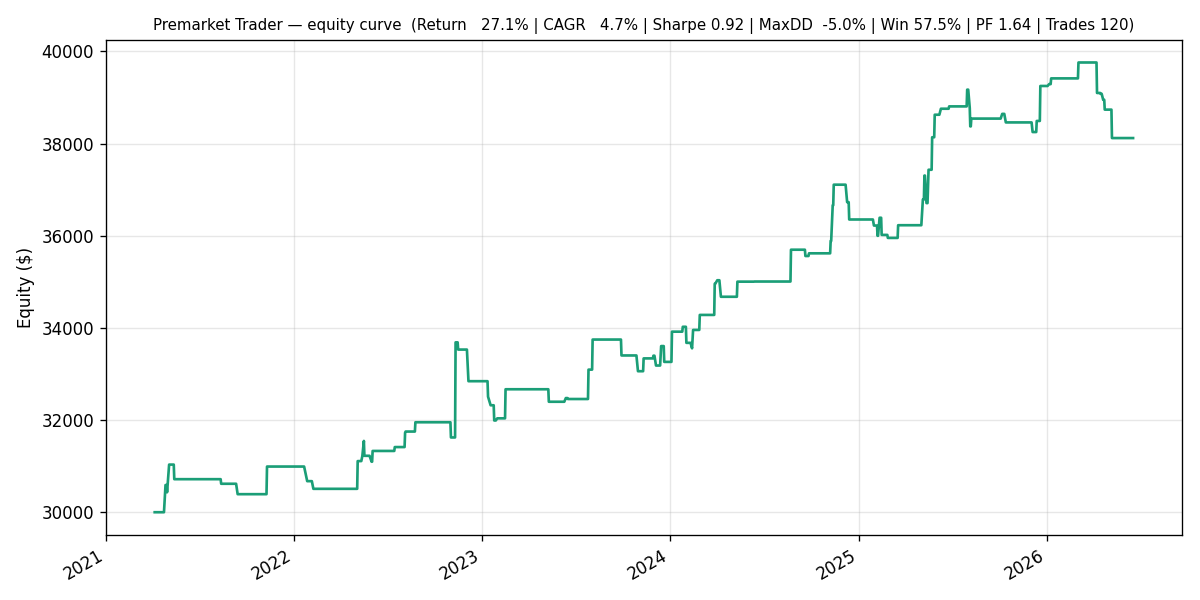
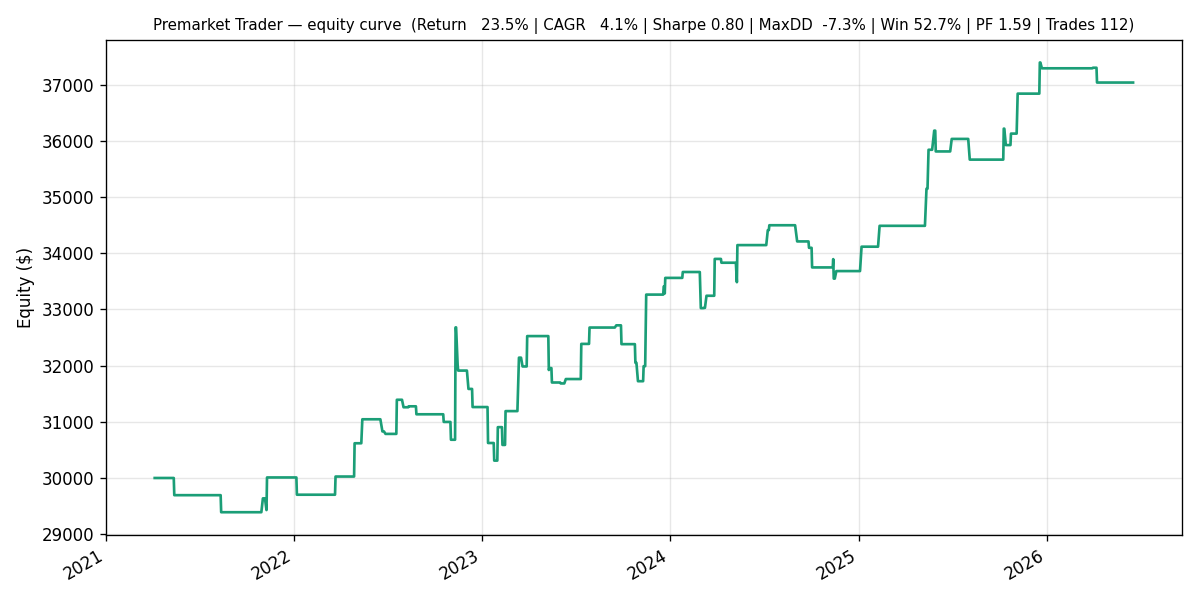
Model v2: corpus-driven leakage-safe features from full 1,105-transcript mine
Mined the complete transcript corpus (multi-agent) for daily-computable signals
the model ignored, and added the highest-value, lookahead-safe ones:
- cross-sectional "leading gainer" rank: gap_pctile, rvol_pctile, n_gappers
- prior-bar candle shape / 50%-retrace proxy: close_location_prev, wick ratios,
  retrace_depth_prev
- over-extension: extension_vs_ema9, consec_up_days
- blue_sky_dist (open vs 252d high); rvol_min grid widened toward 5x

Held-out TEST slice improves: Sharpe 0.93->1.14, MaxDD -4.1%->-2.8%, PF 1.55->1.80
on fewer, more-selective trades. Full out-of-fold period comparable (~0.80) on a
small sample (36 test trades) - documented honestly in STRATEGY.md sec 5b.
No-lookahead test still passes. Float/reverse-split/news correctly dropped
(not derivable from adjusted daily OHLCV). Playbook refreshed with exact corpus
numbers; risk-layer (regime sizing, three-strike) noted as next steps.

diff --git a/premarket_trader/features.py b/premarket_trader/features.py
@@ -16,6 +16,10 @@ FEATURE_COLS = [
     "gap", "rvol", "log_price", "atr_pct", "range_prev",
     "ret_1d", "ret_5d", "ret_20d", "gap_vs_atr", "dist_high20",
     "vol_trend", "market_breadth", "dow", "month",
+    # ---- corpus-driven additions (all lookahead-safe; see docs/STRATEGY.md) ----
+    "gap_pctile", "rvol_pctile", "n_gappers",            # cross-sectional leadership
+    "close_location_prev", "upper_wick_prev", "lower_wick_prev", "retrace_depth_prev",
+    "extension_vs_ema9", "consec_up_days", "blue_sky_dist",
 ]
 
 
@@ -44,6 +48,26 @@ def _per_ticker(g: pd.DataFrame) -> pd.DataFrame:
     g["gap_vs_atr"] = g["gap"] / g["atr_pct"].replace(0, np.nan)
     g["dist_high20"] = g["prev_close"] / g["high"].rolling(20).max().shift(1) - 1.0
     g["vol_trend"] = avg_vol20 / g["volume"].rolling(60).mean().shift(1)
+
+    # ---- corpus-driven features (all from PRIOR completed bars; no lookahead) ----
+    prev_open, prev_high, prev_low = (g["open"].shift(1), g["high"].shift(1), g["low"].shift(1))
+    rng = (prev_high - prev_low).replace(0, np.nan)
+    body_hi = pd.concat([prev_open, prev_close], axis=1).max(axis=1)
+    body_lo = pd.concat([prev_open, prev_close], axis=1).min(axis=1)
+    # where the prior bar closed in its range + wick anatomy (topping/bottoming tails)
+    g["close_location_prev"] = ((prev_close - prev_low) / rng).fillna(0.5)
+    g["upper_wick_prev"] = ((prev_high - body_hi) / rng).fillna(0.0)
+    g["lower_wick_prev"] = ((body_lo - prev_low) / rng).fillna(0.0)
+    g["retrace_depth_prev"] = ((prev_high - prev_close) / rng).fillna(0.5)  # 50%-retrace proxy
+    # over-extension / exhaustion
+    ema9 = g["close"].ewm(span=9, adjust=False).mean().shift(1)
+    g["extension_vs_ema9"] = (prev_close - ema9) / ema9
+    up = (g["close"] > g["close"].shift(1)).astype(int)
+    run = up.groupby((up != up.shift()).cumsum()).cumcount() + 1
+    g["consec_up_days"] = (run * up).shift(1).clip(upper=6)
+    # blue-sky: open above the long-horizon high = no overhead resistance
+    hist_high = g["high"].rolling(252, min_periods=20).max().shift(1)
+    g["blue_sky_dist"] = g["open"] / hist_high - 1.0
     return g
 
 
@@ -96,6 +120,10 @@ def build_events(prices: pd.DataFrame, p: Params) -> pd.DataFrame:
         & (feat["open"] <= p.price_max)
         & (feat["dollar_vol_prev"] >= p.min_dollar_vol)
     ].copy()
+    # cross-sectional "leading gainer" features over the day's candidate pool (open-time)
+    pool["gap_pctile"] = pool.groupby("date")["gap"].rank(pct=True)
+    pool["rvol_pctile"] = pool.groupby("date")["rvol"].rank(pct=True)
+    pool["n_gappers"] = pool.groupby("date")["gap"].transform("count")
     pool = pool.replace([np.inf, -np.inf], np.nan).dropna(subset=FEATURE_COLS)
     pool = _simulate_outcome(pool, p)
     return pool.sort_values("date").reset_index(drop=True)

diff --git a/premarket_trader/walkforward.py b/premarket_trader/walkforward.py
@@ -21,7 +21,7 @@ from . import metrics as metrics_mod
 
 GRID = {
     "gap_min": [0.03, 0.05, 0.08, 0.12],
-    "rvol_min": [1.0, 1.5, 2.5],
+    "rvol_min": [1.5, 3.0, 5.0],          # corpus: "at least 5x relative volume"
     "ml_min_proba": [0.45, 0.50, 0.55, 0.60],
     "max_positions": [3, 5, 10],
 }

diff --git a/docs/PLAYBOOK.md b/docs/PLAYBOOK.md
@@ -13,11 +13,19 @@ this repo turns it into a backtestable, trainable model.
 
 A name is a candidate only when it is genuinely *in play*. The classic filters:
 
-1. **Low price** — roughly **$1–$20**. Cheap enough to move fast in percentage terms.
-2. **Large percentage gain** — already **up strongly on the day** (a real gap), not drifting.
-3. **High relative volume** — trading **many multiples** of its normal volume; unusual interest.
-4. **Low float** — a **small tradable share count** (often < ~20M); thin supply amplifies moves.
-5. **A catalyst** — **breaking news** (earnings, FDA, contract, offering, etc.) explaining the move.
+1. **Low price** — **$2–$20**, sweet spot **$5–$10**. Below ~$2 is "too cheap" and avoided.
+2. **Large percentage gain** — already **up ≥10%** on the day (prefer **30%+**; the biggest
+   winners run 50–300%+). A real move, not a drift.
+3. **High relative volume** — at least **5× its average** volume (elite names run 50–500×+).
+   The volume surge is the demand signal.
+4. **Low float** — **under ~10M shares** preferred, under 20M acceptable, **sub-1M** the most
+   explosive; thin supply amplifies moves. (Exception: very recent IPOs trade low-float-like.)
+5. **A catalyst** — **breaking news** (FDA, contract, earnings, crypto/AI pivot, etc.), which
+   is what brings the volume. Headlines cluster **7:00–9:00 am ET**.
+
+Extra edges the corpus emphasizes: **blue-sky** setups (price above its all-time high → no
+overhead sellers), proximity to **half- and whole-dollar** levels (psychological support /
+resistance), and a recent **reverse split** (mechanically shrinks the float).
 
 The single best tell is being the **#1 percentage gainer** in the market — the most
 *obvious* stock, where the crowd's attention concentrates.
@@ -56,12 +64,15 @@ The second and third pullbacks can work too, but the **first** is highest-probab
 
 - **Match size to skill.** Beginners trade small (even smaller than feels right) and
   scale size up only as a documented edge is proven.
-- **Starter position first.** Take a small "feeler" each day; if it works, press; if it
-  fails, the caution flag is out — the tape is telling you it's a cold day.
+- **Icebreaker sizing.** The first trade of the day is the highest emotional risk — take it
+  at **~¼ size**, then scale **¼ → ½ → full** only after the day is green ("build a cushion").
 - **Cut losses fast; never average down** a loser. One undisciplined add can erase weeks
   of gains.
-- **Daily max loss / no-trade days.** Survive the cold stretches; protect the account so
-  you're around when conditions turn hot.
+- **Daily max loss + profit goal + "three strikes."** A hard daily max-loss **ends the day**
+  when hit; a daily **profit goal of ~2× that max loss**; and stop after **~3 losing trades**
+  even if the dollar limit isn't reached. No-trade days are fine.
+- **Size to the tape.** Trade bigger when the market is hot (many names up >100%), and small
+  or not at all when it's cold — the #1 way accounts blow up is full size on a cold day.
 - **Consistency over home runs.** The edge is a repeatable checklist executed with
   discipline, not any single trade.
 

diff --git a/docs/STRATEGY.md b/docs/STRATEGY.md
@@ -28,7 +28,12 @@ prior close, plus that morning's open):
 
 `gap`, `rvol` (prior-day volume vs its 20-day average), `log_price`, `atr_pct`,
 `range_prev`, `ret_1d/5d/20d`, `gap_vs_atr`, `dist_high20`, `vol_trend`,
-`market_breadth` (how many universe names gap ≥5% that day), `dow`, `month`.
+`market_breadth` (how many universe names gap ≥5% that day), `dow`, `month`,
+plus the **corpus-driven** additions (see §5b): `gap_pctile`, `rvol_pctile`, `n_gappers`
+(cross-sectional "leading gainer" rank), `close_location_prev`, `upper_wick_prev`,
+`lower_wick_prev`, `retrace_depth_prev` (prior-bar candle shape / 50%-retrace proxy),
+`extension_vs_ema9`, `consec_up_days` (over-extension), and `blue_sky_dist` (open vs
+the 252-day high).
 
 The trade **outcome** (used as the training label and for PnL) uses the day's high/low/
 close — known only *after* entry — so it is **never** used as a feature. A unit test
@@ -63,6 +68,41 @@ Default 135-name universe, 2018→present, $30k account, 1% risk/trade, 10 bps s
 The takeaway mirrors the playbook: **naively chasing every gap loses money; disciplined,
 model-driven selection is the edge.** (Your numbers will move with the universe, dates and
 data vintage — re-run to reproduce.)
+
+## 5b. Corpus-driven feature upgrade (v2)
+
+A deep mine of the full transcript corpus surfaced concrete, *daily-computable* signals the
+original model ignored. The highest-value, leakage-safe ones were added (the rest — float,
+reverse-split, news catalysts — were correctly dropped as not derivable from adjusted daily
+OHLCV):
+
+- **Cross-sectional leadership** (`gap_pctile`, `rvol_pctile`, `n_gappers`) — the corpus's
+  strongest, most-repeated idea ("trade the #1 leading gainer"). The original model scored
+  every name in isolation with no notion of whether it was *the* leader or the 8th-best.
+- **Prior-bar candle shape** (`close_location_prev`, wick ratios, `retrace_depth_prev`) —
+  encodes the topping-tail / strong-close vocabulary and the 50%-retracement rule.
+- **Over-extension** (`extension_vs_ema9`, `consec_up_days`) — the "too extended after 4–5
+  green candles" disqualifier.
+- **Blue-sky** (`blue_sky_dist`) — open above the long-horizon high = no overhead supply.
+
+Effect on the **held-out test slice** (params tuned only on the earlier train half):
+
+| OOS TEST | v1 (baseline) | v2 (corpus features) |
+|---|---|---|
+| Sharpe | 0.93 | **1.14** |
+| Max drawdown | −4.1% | **−2.8%** |
+| Profit factor | 1.55 | **1.80** |
+| Trades | 53 | 36 (more selective) |
+
+**Honest caveat:** the gains concentrate in the recent test slice on a **small sample
+(36 trades)**; over the full out-of-fold period the result is comparable (Sharpe ~0.80).
+The features are well-motivated and leakage-free, but on this small, survivorship-biased
+universe treat this as a *modest* improvement, not a step-change. The corpus is a hypothesis
+source, not ground truth.
+
+> Not yet shipped (documented as next steps): a market-regime *sizing* lever and a
+> three-strike / daily-goal circuit breaker from the corpus — risk-layer changes that affect
+> realized drawdown rather than the feature set.
 
 ## 6. Limitations (read these)
 

diff --git a/README.md b/README.md
@@ -23,12 +23,15 @@ Default ~135-name universe, 2018→present, $30k account, 1% risk/trade, 10 bps 
 
 | Variant (out-of-sample TEST) | Return | Sharpe | Max DD | Win rate | Profit factor |
 |---|---|---|---|---|---|
-| **Rules + ML selection** | **+8.9%** | **0.93** | **−4.1%** | **58.5%** | **1.55** |
-| Rules only (naive gap-chase) | −35.8% | −1.51 | −35.6% | 31.9% | 0.60 |
+| **Rules + ML selection** | **+8.5%** | **1.14** | **−2.8%** | **55.6%** | **1.80** |
+| Rules only (naive gap-chase) | −42.4% | −2.16 | −42.4% | 24.6% | 0.40 |
 
 **The trained selection model is the edge:** blindly buying every gap-up loses money out of
-sample; the model decides *which* gap-ups are worth trading. (Re-run to reproduce — numbers
-shift with universe, dates, and data vintage.)
+sample; the model decides *which* gap-ups are worth trading. The feature set was upgraded
+with **corpus-mined, leakage-safe signals** (cross-sectional "leading gainer" rank, prior-bar
+candle shape, over-extension, blue-sky) — see [docs/STRATEGY.md §5b](docs/STRATEGY.md#5b-corpus-driven-feature-upgrade-v2)
+for the honest v1→v2 comparison and caveats. (Re-run to reproduce — numbers shift with
+universe, dates, and data vintage.)
 
 ![equity curve](results/wf_demo_equity.png)
 
